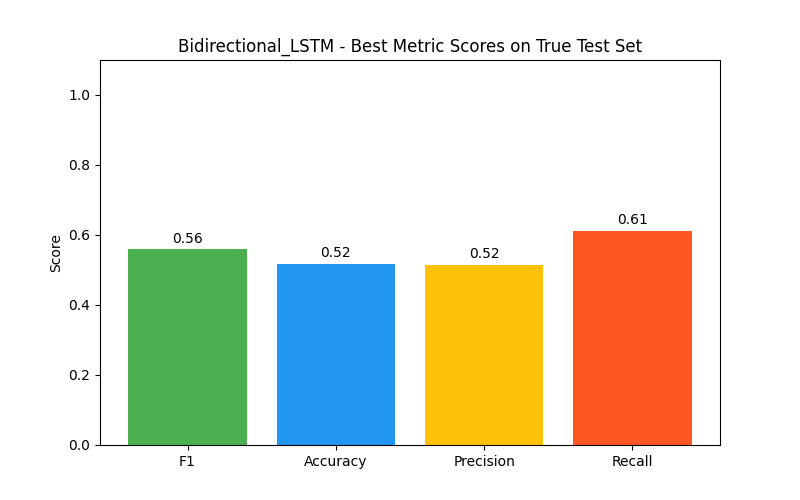
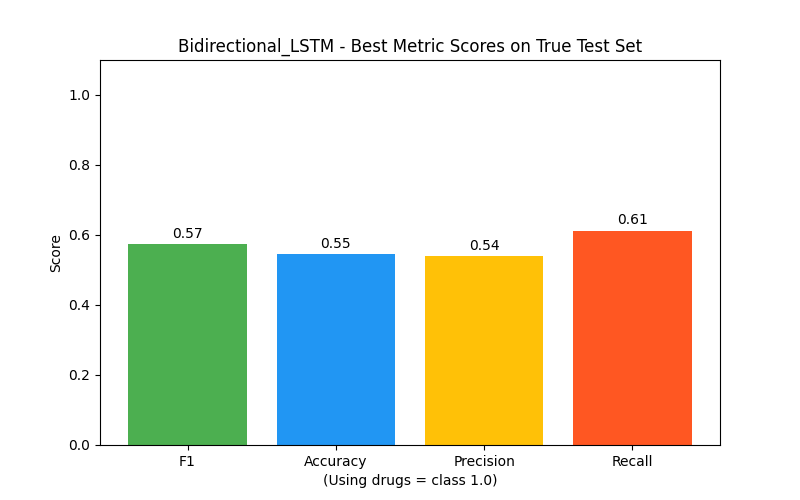
Update documentation for checkpoint 3

diff --git a/src/models/ml/trainer.py b/src/models/ml/trainer.py
@@ -266,6 +266,7 @@ def test_models(model_names: set[str]) -> None:
         for i, (k, v) in enumerate(plot_metrics.items()):
             plt.text(i, v + 0.01, f"{v:.2f}", ha="center", va="bottom")
         plt.ylabel("Score")
+        plt.xlabel(f"(Using drugs = class {IS_USING_LABEL})")
         plt.savefig(graph_loc / f"{name}_test_metrics_bar.png")
         plt.close()
 

diff --git a/trained_models/README.md b/trained_models/README.md
@@ -27,16 +27,16 @@ hidden_size,num_layers,dropout,lr,f1,accuracy,precision,recall
 While not perfect, we will extrapolate these results for regular training (due to resource limitations in testing). That is, instead of running the full param_grid sweep again for every model, we will only run
 ```
 param_grid: dict[str, list[float | int]] = {
-    "hidden_size": [128, 200, 256],
+    "hidden_size": [128, 200, 256, 384],
     "num_layers": [1, 2],
-    "dropout": [0.0],
-    "lr": [0.001],
+    "dropout": [0.0, 0.1],
+    "lr": [0.001, 0.0005],
 }
 ```
 Additionally, the original optimizer used was SGD, but the new optimizer used will be Adam.
 ### Justification for the new param grid
 * The better models tend to have higher complexity ($\text{size}\geq 128$).
 * Having more than 2 layers led to bad results.
-* The dropout parameter did not change much.
-* Setting the learning rate lower/higher tended to not make results better
+* The dropout parameter did not change much so tested less configurations.
+* A learning rate of 0.001 seemed to be around the best.
 * While SGD was used at first, playing around with Adam instantly spiked the accuracy by 2-3%. Changing the optimizer does draw question to if the results are valid, but we will have to live with it as rerunning the full sweep would take too long.

diff --git a/graphs/models/README.md b/graphs/models/README.md
@@ -1,0 +1,5 @@
+# Overview of [`models`](../models/) Graph Directory
+
+The graphs under [`./test_set/`](./test_set/) are graphs generated by testing the corresponding models on the true test data. That is, the data of users that were actually drug tested and either passed (0) or failed (1). There were 111 failing users and 111 passing users exactly used to generate these graphs.
+
+The graphs under [`./val_set/`](./val_set/) are graphs generated by testing the corresponding models on the validation split data. The data was randomly split 80/20 from the training data and filtered to be exactly 50% users who did not compete in a drug tested competition (1) and users who did compete in a drug tested competition (0).

diff --git a/README.md b/README.md
@@ -47,6 +47,10 @@ pre-commit install
 pre-commit run --all-files
 ```
 
+## Results from the Models
+
+Graphical results from the models can be found at [`powerstats/graphs/models/`](./graphs/models/). For an explanation of the results, see [`powerstats/graphs/models/README.md`](./graphs/models/README.md).
+
 ## License
 
 This page uses data from the OpenPowerlifting project, https://www.openpowerlifting.org.
